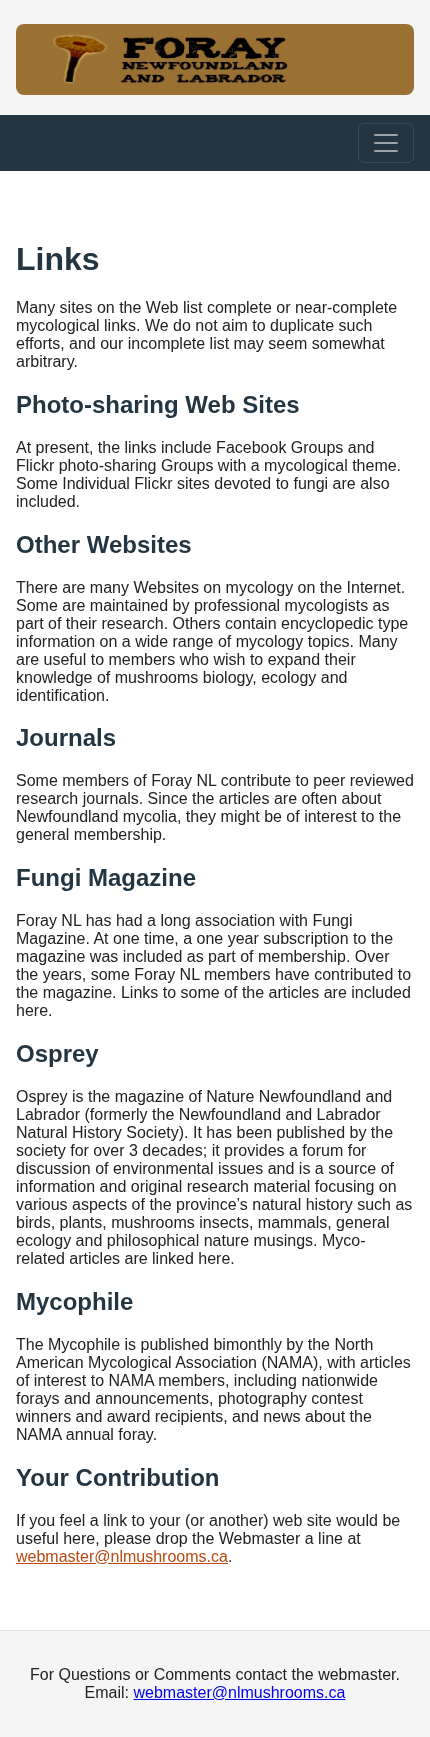
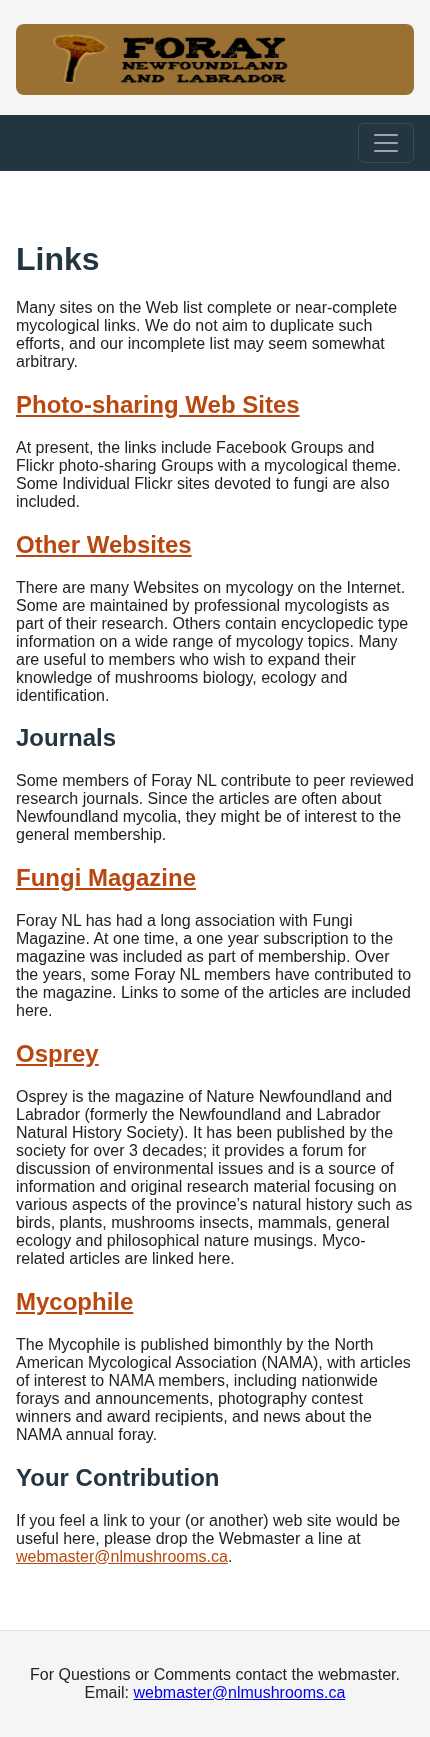
feat(about): history as real HTML text (OCR), link resource headings, link original images

diff --git a/about_us.html b/about_us.html
@@ -118,9 +118,35 @@
       <h1>What is Foray Newfoundland and Labrador?</h1>
       <p>Foray Newfoundland and Labrador is a not-for-profit organization conducting amateur mushroom forays in the province of Newfoundland and Labrador, Canada.</p>
     </section>
-    <section class="history" aria-label="Foray Newfoundland and Labrador history 2003-2012">
-      <img src="_wp_generated/wpf1bb9412_06.png" alt="Article about Foray NL column 1" width="446" height="2095">
-      <img src="_wp_generated/wpb423b1a6_06.png" alt="Article about Foray NL column 2" width="440" height="2095">
+    <section class="history content" aria-labelledby="history-title">
+      <h2 id="history-title">Foray Newfoundland &amp; Labrador History 2003-2012</h2>
+      <h3>Beginning</h3>
+      <p>The first foray was organized in 2003 by Andrus and Maria Voitk, with the help of Judy and Barry May, Anne Marceau and Michael Burzynski, and others. The Voitks, former members of the <strong>Mycological Society of Toronto</strong>, had planned to join the local Corner Brook mushroom club, but found there was none. However, the local <strong>Humber Natural History Society</strong> gladly incorporated mushrooming activities into its program.</p>
+      <p>Andrus often corresponded on matters mycological with Anu Kollom, a mycologist relative in Estonia, and invited her to visit. She accepted, and came with three other faculty members. The first Foray was thus born, with four professional mycologists, supplemented with additional identifiers Rod Tulloss and Vello Soots. The Voitks asked Pat Burchell and Vello Soots of the <strong>Mycological Society of Toronto</strong> to advise and help. Vello had been president and foray organizer of <strong>MST</strong> over 10 years, so organizing a foray in Newfoundland and Labrador posed no problem. He and Pat came a week in advance to help set it up and running. Subsequent forays were organized according to their methods and teachings with great success.</p>
+      <h3>Partners &amp; Finances</h3>
+      <p>Because so many people from away were interested in NL mushrooms, Andrus approached the <strong>Minister of Tourism and Culture</strong> for partnership. At the time, the <strong>Division of Parks and Natural Areas</strong> belonged to that Ministry, and the Minister asked his Department to provide the required support. From then on, <strong>Parks</strong> has remained the major partner, and its presence made it easier to attract others. Good partners, who have remained loyal throughout the years, have enabled successful forays which have added significantly to the mycological knowledge base, as well as participant enjoyment. The Foray’s financing has been set up so that participants pay for direct expenses and the partners support the scientific aspect.</p>
+      <h3>Scientific</h3>
+      <p>Finding professional identifiers in the early years relied on personal persuasion coupled to the exotic attraction of our remote and rugged province. As word spread in the relatively small mycological community, and as our Reports and other communications showed the more serious nature of our work, finding professionals willing to spend money to travel here became progressively easier. In 2003, only a species list was developed. From 2004 on, collections were photographed and voucher specimens kept in support of our database. The annual forays are rotated through different areas of our province that can support the infrastructure needs. Often smaller forays are arranged in remoter areas unable to support the whole group.</p>
+      <p>The data accumulated helped Andrus Voitk to put together the first field guide to mushrooms of the province. The Foray has just finished the selection process for a poster of our best edible mushrooms. At the moment we are preparing a brief to the Government to name a provincial mushroom.</p>
+      <p>The accumulation of a professionally identified collection and continued contacts with academic mycologists active in research has led to increased use of our material in cooperative investigations. The resulting publications help us know our local mushrooms, but in most cases have also become of interest to the world at large. At the moment we are cooperating in around 20 investigative projects with various scientists internationally, and can only expect this involvement to increase.</p>
+      <h3>Organization</h3>
+      <p>The early organization was done by the Voitks with several helpers, as part of the activities of the <strong>Humber Natural History Society</strong>. However, the nature of the foray began to differ from that of its parent organization. The HNHS was a regional organization with a low membership fee and stable small bank balance. The foray became provincial in nature, with participants and organizers from across the province. Its participation fee was significant, reflecting food and accommodation costs, and the funds that flowed through the foray budget were 20-30 times the HNHS stable balance. The Foray became an independent organization, the name <strong>Foray Newfoundland &amp; Labrador</strong> suggested by Judy May. For the continuation of organized forays in our province, a Board of Directors was assembled in April, 2008, and the not-for-profit organization was incorporated as <strong>MUSHROOM FORAY NEWFOUNDLAND &amp; LABRADOR INC</strong>, September 2, 2008.</p>
+      <h3>Communications</h3>
+      <p>A web site was created in 2008 and in 2010 an electronic newsletter, <strong>Omphalina</strong>, was added. The latter began as a vehicle for dissemination of foray related information to registered participants, but has since evolved to a journal of mycological interest, showcasing, among other mushroom lore, many of the investigative projects in which FNL cooperates with international experts. It is e-mailed to members, but available to the public free of charge from the website. We support the free dissemination of information, and all our Foray Reports as well as Species Lists are also freely available to the public form our website. Elsewhere on the website is a list of published material arising from Foray material or activity, or by Foray members.</p>
+      <h3>Equipment</h3>
+      <p>FNL has acquired dryers, display signs, two-way radios, GPS units, microscope kits and other equipment for conducting forays. So far it has borrowed microscopes, books, computers and projection equipment. With greater future support, FNL also hopes to acquire these items in order to function as an independent professional organization.</p>
+      <h3>Current status</h3>
+      <p>Thus, since the first foray in 2003, the organization has developed a secure footing in organization, finances, scientific support, communications, and has begun a slow path to acquisition of equipment. All of this is justified and has been possible only because of the support of its members. Interest in mushrooming among the population of Newfoundland and Labrador is on the rise; each year there are more foray registrants and the last three years have had a waiting list. Each year there is a 40% previous participant return, and 30% newcomer participation. The Foray is supplying a need among the population, and the scientific community.</p>
+      <p>Realizing that lichens are fungi, their study has been added to the scope of study, with a lichenologist on the Foray faculty. However, since collections have different implications for lichenized fungi, we have not collected them, until the problem with the future of the collection has been solved (see below).</p>
+      <p>The Foray is now the work of many.</p>
+      <h3>Memorable moments</h3>
+      <p>Every foray is exciting and leaves its own memories. However, for us, none will ever be as electrifying and exciting as the first foray in 2003. Another year, revealed courage under duress: all projection equipment failed, as Faye Murrin launched into a slide-based presentation, and soldiered on for her hour's talk. Third on our list: the infamous three hour round table discussion on species concept by several authorities. Andrus had been warned against this undertaking, but refused to take advice; it utterly bombed, as predicted. After the break, we were sure not a soul would return, and from overheard comments knew that the subject matter had left the audience untouched. However, we were very moved by the innate courtesy and kindness of our participants, when every last one trooped back in! Afterwards, many thanked Andrus for his efforts to organize the discussion.</p>
+      <h3>Major problem</h3>
+      <p>Amid all the positive factors outlined, FNL has a major problem to solve in the immediate future. The foray collection has become very large. When started, it was housed temporarily in the Herbarium of Gros Morne National Park. Now it fills the entire space and no new space is available. We have met with the administrators of the <strong>Provincial Museum at The Rooms</strong>, whose mandate includes the archiving of significant collections of our natural heritage. To our chagrin, they inform us that they lack resources to accept, access, archive, and tend this valuable collection of professionally identified, photographed and data-based fungi of our province. At this time, no realistic alternative is available in the province. The FNL Directors do not want the collection to leave the province. Unless they find a solution within this year, they may have to take up one of three off-island museum-offers to house this valuable collection. This problem weighs heavily on the FNL Board; one can only hope that the provincial powers-to-be will prove wise enough soon enough to keep their mycological heritage in the province.</p>
+      <p class="signature">Andrus &amp; Maria Voitk, Feb 6, 2012.</p>
+      <p class="source">Original article as first published on this site (images):
+        <a href="_wp_generated/wpf1bb9412_06.png">column 1</a> and
+        <a href="_wp_generated/wpb423b1a6_06.png">column 2</a>.</p>
     </section>
   </main>
   <!-- layout:footer -->

diff --git a/resources.html b/resources.html
@@ -117,17 +117,17 @@
     <section class="content">
       <h1>Links</h1>
       <p>Many sites on the Web list complete or near-complete mycological links. We do not aim to duplicate such efforts, and our incomplete list may seem somewhat arbitrary.</p>
-      <h2>Photo-sharing Web Sites</h2>
+      <h2><a href="facebook_links.html">Photo-sharing Web Sites</a></h2>
       <p>At present, the links include Facebook Groups and Flickr photo-sharing Groups with a mycological theme. Some Individual Flickr sites devoted to fungi are also included.</p>
-      <h2>Other Websites</h2>
+      <h2><a href="fungal_websites.html">Other Websites</a></h2>
       <p>There are many Websites on mycology on the Internet. Some are maintained by professional mycologists as part of their research. Others contain encyclopedic type information on a wide range of mycology topics. Many are useful to members who wish to expand their knowledge of mushrooms biology, ecology and identification.</p>
       <h2>Journals</h2>
       <p>Some members of Foray NL contribute to peer reviewed research journals. Since the articles are often about Newfoundland mycolia, they might be of interest to the general membership.</p>
-      <h2>Fungi Magazine</h2>
+      <h2><a href="articles_fungi_magazine.html">Fungi Magazine</a></h2>
       <p>Foray NL has had a long association with Fungi Magazine. At one time, a one year subscription to the magazine was included as part of membership. Over the years, some Foray NL members have contributed to the magazine. Links to some of the articles are included here.</p>
-      <h2>Osprey</h2>
+      <h2><a href="osprey.html">Osprey</a></h2>
       <p>Osprey is the magazine of Nature Newfoundland and Labrador (formerly the Newfoundland and Labrador Natural History Society). It has been published by the society for over 3 decades; it provides a forum for discussion of environmental issues and is a source of information and original research material focusing on various aspects of the province’s natural history such as birds, plants, mushrooms insects, mammals, general ecology and philosophical nature musings. Myco-related articles are linked here.</p>
-      <h2>Mycophile</h2>
+      <h2><a href="mycophyle_articles.html">Mycophile</a></h2>
       <p>The Mycophile is published bimonthly by the North American Mycological Association (NAMA), with articles of interest to NAMA members, including nationwide forays and announcements, photography contest winners and award recipients, and news about the NAMA annual foray.</p>
       <h2>Your Contribution</h2>
       <p>If you feel a link to your (or another) web site would be useful here, please drop the Webmaster a line at <a href="mailto:webmaster@nlmushrooms.ca">webmaster@nlmushrooms.ca</a>.</p>

diff --git a/assets/styles/site.css b/assets/styles/site.css
@@ -195,5 +195,14 @@ main.page { display: block; max-width: 860px; }
 main.page .content { min-width: 0; }
 main.page address { font-style: normal; margin: 0 0 1em; }
 main.page a { color: #b8480f; }
-.history { display: flex; flex-wrap: wrap; gap: 1rem; margin-top: 1.5rem; }
-.history img { flex: 1 1 320px; max-width: 100%; height: auto; background: #fde2bd; border: 1px solid #243542; }
+.history { margin-top: 2rem; }
+.history h2 { font-size: 1.4em; }
+.history h3 { margin: 1.4em 0 0.3em; font-size: 1.1em; }
+.history p { margin: 0 0 0.9em; }
+.history .signature { margin-top: 1.5em; font-style: italic; }
+@media (min-width: 900px) {
+  .history { column-count: 2; column-gap: 2.5rem; }
+  .history h2 { column-span: all; }
+  .history h3 { break-after: avoid; }
+}
+.history .source { margin-top: 1.5em; font-size: 0.9em; column-span: all; }
